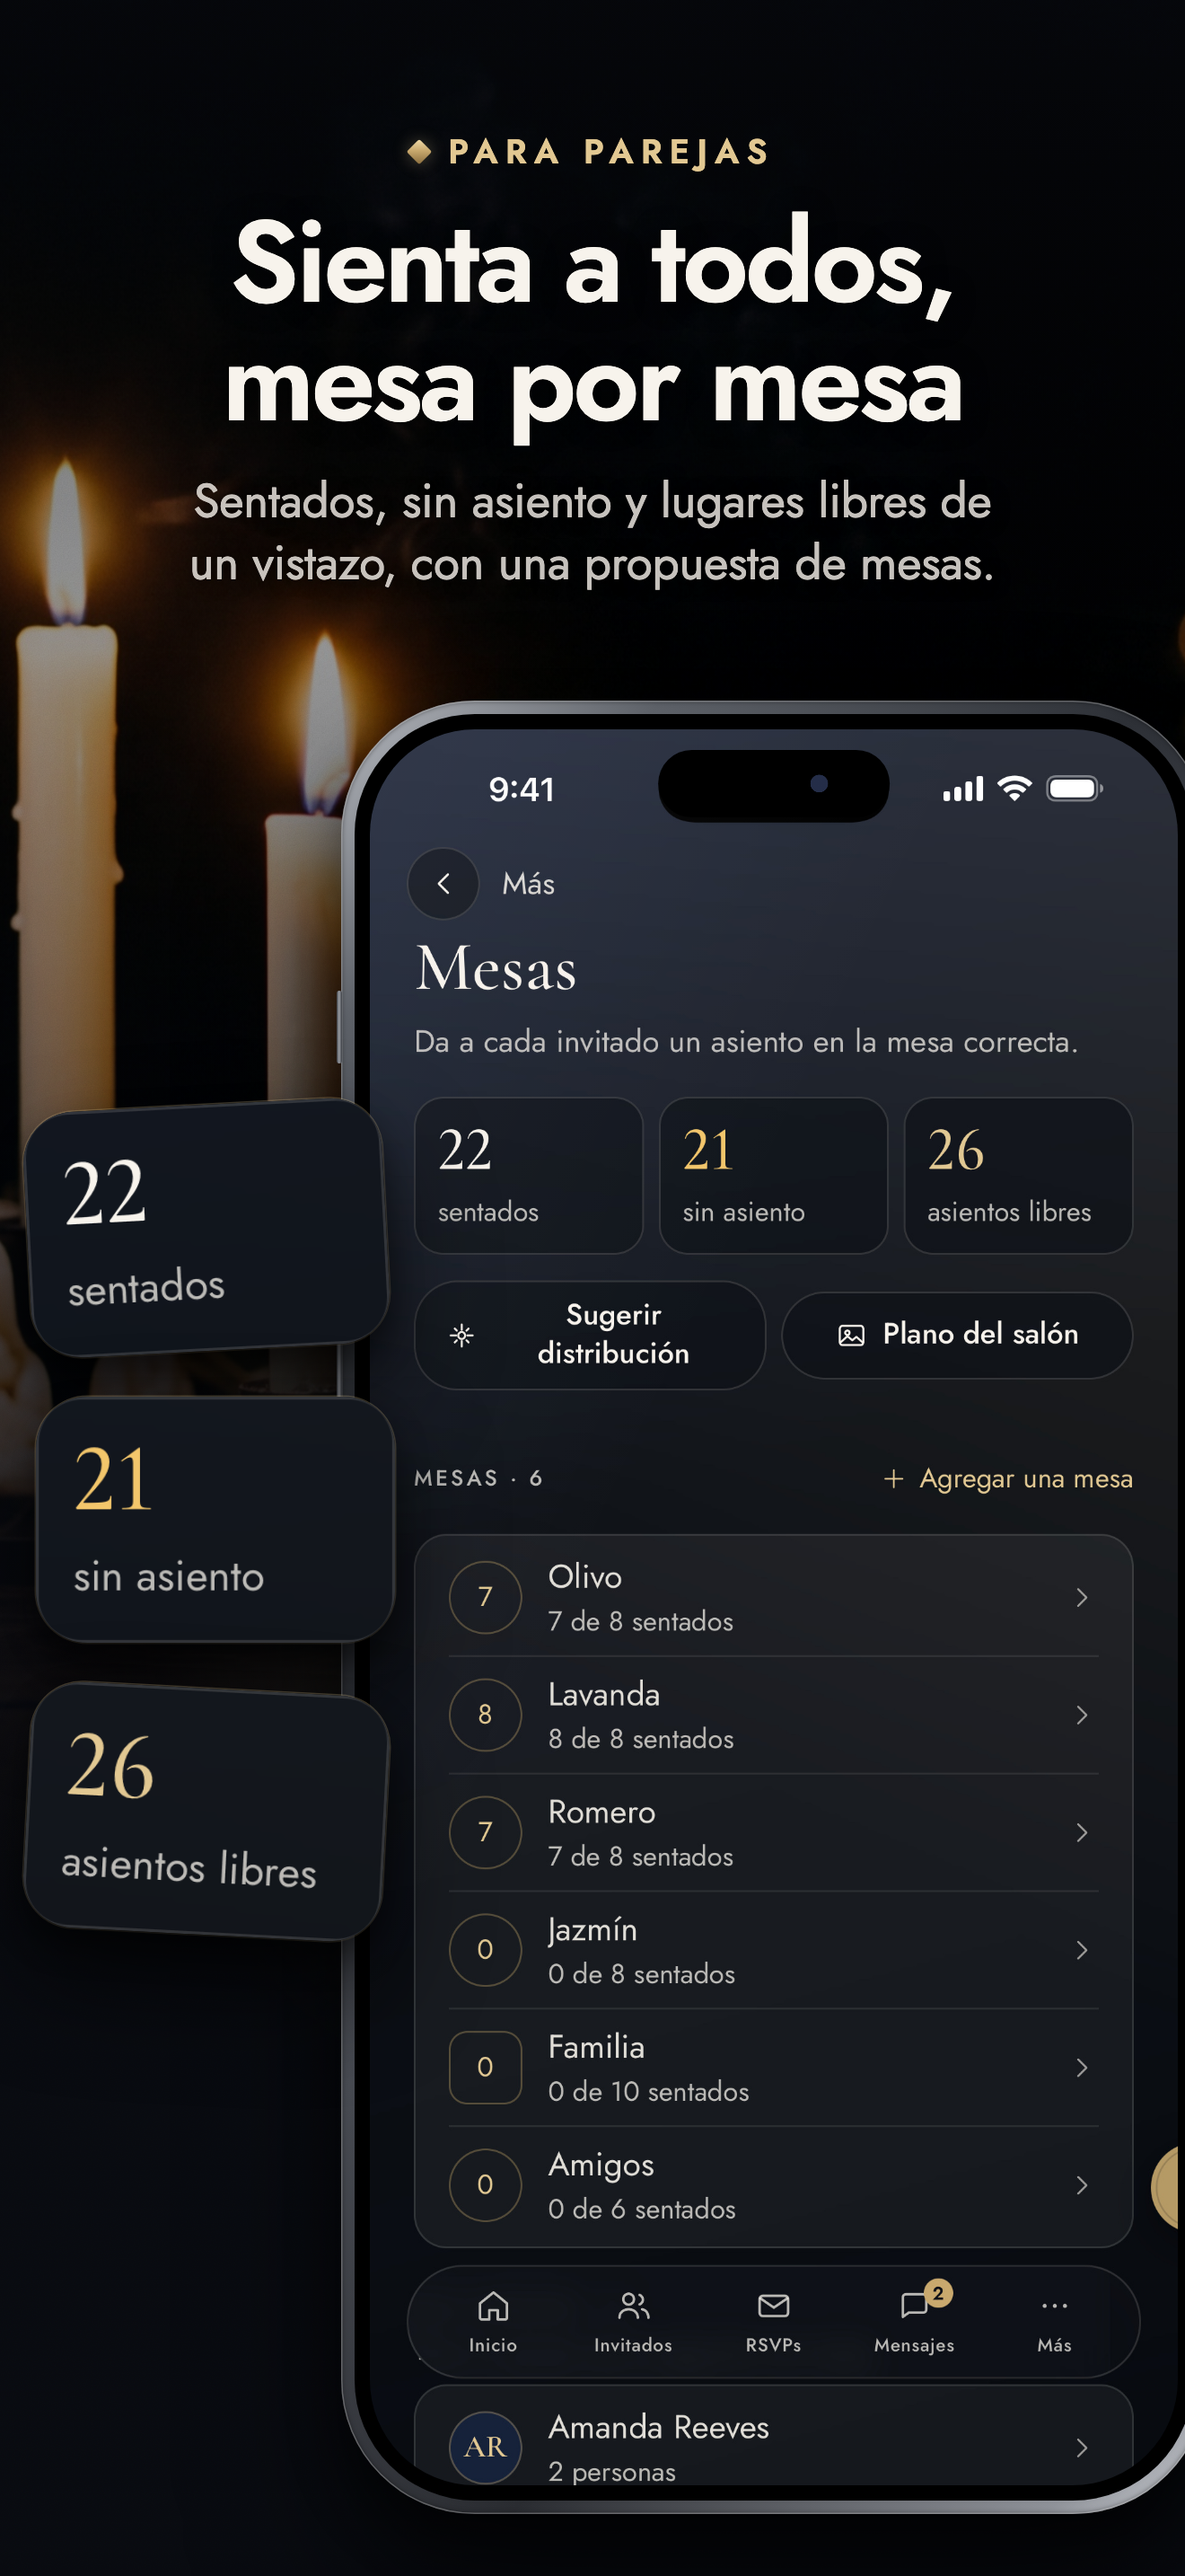
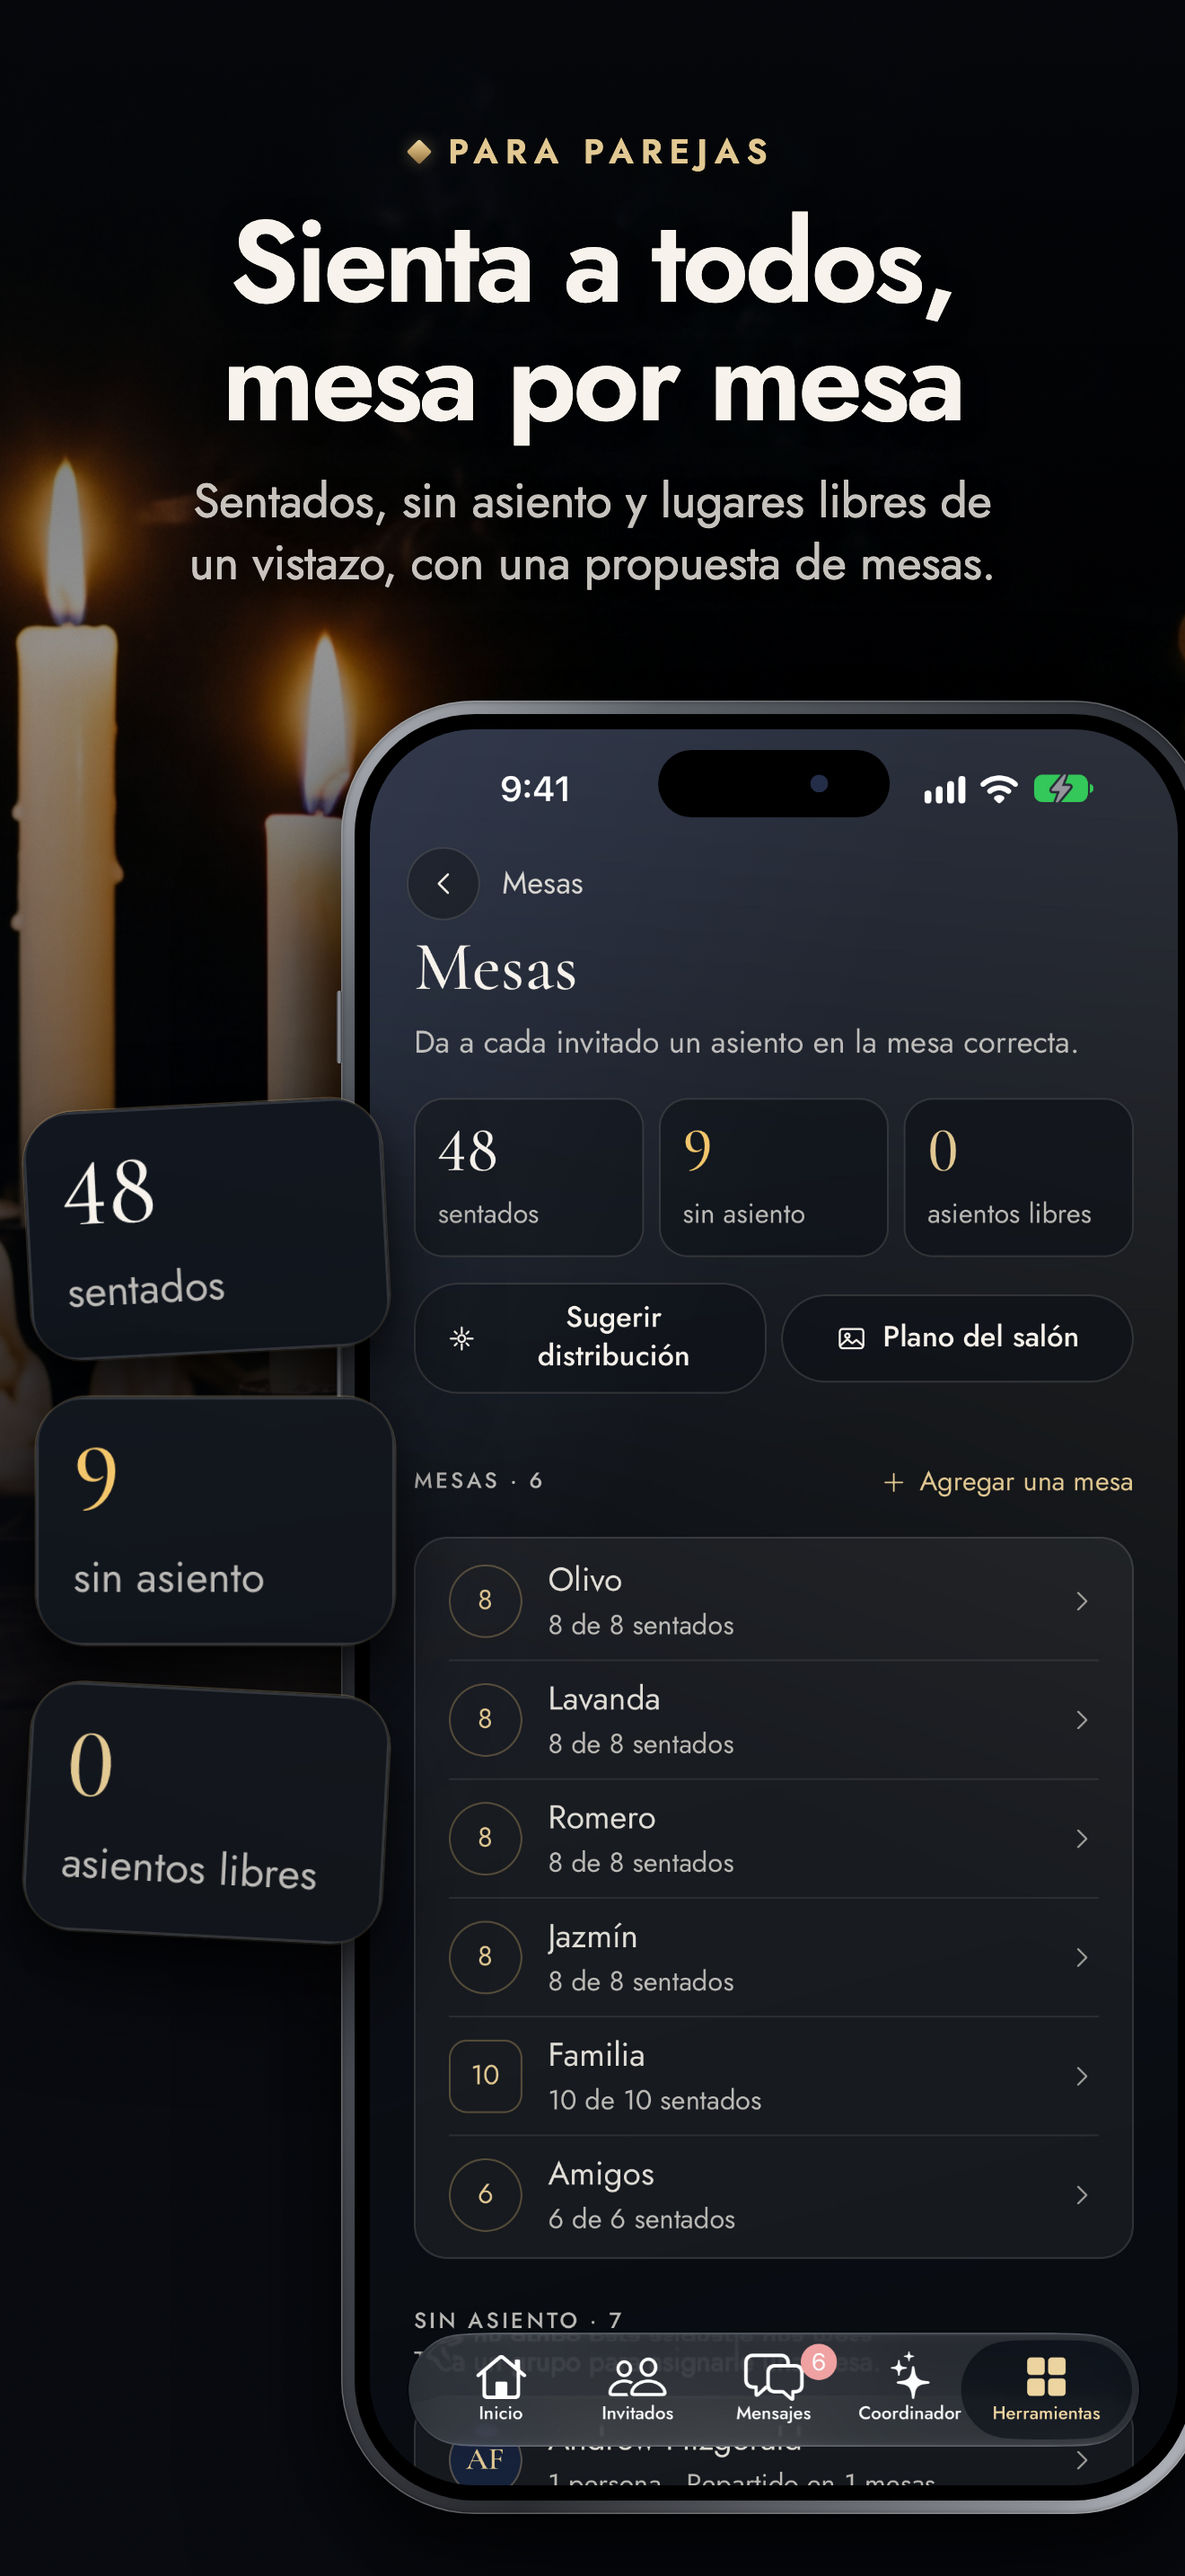
Store: recapture screenshots 06-09 on app 1.2 (new tab bar), partial-rebuild support in the screenshot tools
Claude-Session: https://claude.ai/code/session_01DJQs2B5jbS4ukoA1C6Tfy6

diff --git a/guestly-mobile/store/screenshots/src/boxes.js b/guestly-mobile/store/screenshots/src/boxes.js
@@ -1,1 +1,1 @@
-window.BOXES = {"en": {"answer-shuttle": {"box": [174, 1692, 1044, 2073], "w": 870, "h": 381}, "answer-parking": {"box": [174, 834, 1044, 1416], "w": 870, "h": 582}, "rsvp-grant": {"box": [72, 1470, 1248, 2232], "w": 1176, "h": 762}, "couple-reply": {"box": [60, 1863, 1068, 2235], "w": 1008, "h": 372}, "getting-there": {"box": [60, 1707, 1260, 2052], "w": 1200, "h": 345}, "checkin-card": {"box": [60, 1139, 1260, 1627], "w": 1200, "h": 488}, "planner-card": {"box": [72, 744, 1248, 1040], "w": 1176, "h": 296}, "seat-stat-0": {"box": [72, 600, 448, 858], "w": 376, "h": 258}, "seat-stat-1": {"box": [472, 600, 848, 858], "w": 376, "h": 258}, "seat-stat-2": {"box": [872, 600, 1248, 858], "w": 376, "h": 258}, "guest-question": {"box": [253, 1141, 1258, 1361], "w": 1005, "h": 220}, "rsvp-stats": {"box": [44, 634, 1276, 1064], "w": 1232, "h": 430}, "question-shuttle": {"box": [452, 1444, 1258, 1664], "w": 806, "h": 220}, "signup-apple": {"box": [74, 1506, 1246, 1680], "w": 1172, "h": 174}, "signup-google": {"box": [74, 1710, 1246, 1884], "w": 1172, "h": 174}}, "es": {"answer-shuttle": {"box": [174, 1692, 1044, 2058], "w": 870, "h": 366}, "rsvp-grant": {"box": [72, 1254, 1285, 1835], "w": 1213, "h": 581}, "couple-reply": {"box": [60, 1863, 1068, 2235], "w": 1008, "h": 372}, "getting-there": {"box": [60, 1707, 1260, 2052], "w": 1200, "h": 345}, "checkin-card": {"box": [60, 1139, 1260, 1627], "w": 1200, "h": 488}, "planner-card": {"box": [72, 744, 1248, 1040], "w": 1176, "h": 296}, "seat-stat-0": {"box": [72, 600, 448, 858], "w": 376, "h": 258}, "seat-stat-1": {"box": [472, 600, 848, 858], "w": 376, "h": 258}, "seat-stat-2": {"box": [872, 600, 1248, 858], "w": 376, "h": 258}, "guest-question": {"box": [261, 996, 1258, 1146], "w": 997, "h": 150}, "rsvp-stats": {"box": [44, 634, 1276, 1064], "w": 1232, "h": 430}, "question-shuttle": {"box": [452, 1444, 1258, 1664], "w": 806, "h": 220}, "answer-parking": {"box": [174, 618, 1044, 1416], "w": 870, "h": 798}, "signup-apple": {"box": [74, 1506, 1246, 1680], "w": 1172, "h": 174}, "signup-google": {"box": [74, 1710, 1246, 1884], "w": 1172, "h": 174}}};
+window.BOXES = {"en": {"answer-shuttle": {"box": [174, 1692, 1044, 2073], "w": 870, "h": 381}, "answer-parking": {"box": [174, 834, 1044, 1416], "w": 870, "h": 582}, "rsvp-grant": {"box": [72, 1470, 1248, 2232], "w": 1176, "h": 762}, "couple-reply": {"box": [60, 1863, 1068, 2235], "w": 1008, "h": 372}, "getting-there": {"box": [60, 1707, 1260, 2052], "w": 1200, "h": 345}, "checkin-card": {"box": [60, 1139, 1260, 1627], "w": 1200, "h": 488}, "planner-card": {"box": [72, 1799, 1248, 2153], "w": 1176, "h": 354}, "seat-stat-0": {"box": [72, 602, 448, 862], "w": 376, "h": 260}, "seat-stat-1": {"box": [472, 602, 848, 862], "w": 376, "h": 260}, "seat-stat-2": {"box": [872, 602, 1248, 862], "w": 376, "h": 260}, "guest-question": {"box": [253, 1141, 1258, 1361], "w": 1005, "h": 220}, "rsvp-stats": {"box": [60, 1182, 1260, 1822], "w": 1200, "h": 640}, "question-shuttle": {"box": [452, 1444, 1258, 1664], "w": 806, "h": 220}, "signup-apple": {"box": [74, 1506, 1246, 1680], "w": 1172, "h": 174}, "signup-google": {"box": [74, 1710, 1246, 1884], "w": 1172, "h": 174}}, "es": {"answer-shuttle": {"box": [174, 1692, 1044, 2058], "w": 870, "h": 366}, "rsvp-grant": {"box": [72, 1254, 1285, 1835], "w": 1213, "h": 581}, "couple-reply": {"box": [60, 1863, 1068, 2235], "w": 1008, "h": 372}, "getting-there": {"box": [60, 1707, 1260, 2052], "w": 1200, "h": 345}, "checkin-card": {"box": [60, 1139, 1260, 1627], "w": 1200, "h": 488}, "planner-card": {"box": [72, 1799, 1248, 2153], "w": 1176, "h": 354}, "seat-stat-0": {"box": [72, 602, 448, 862], "w": 376, "h": 260}, "seat-stat-1": {"box": [472, 602, 848, 862], "w": 376, "h": 260}, "seat-stat-2": {"box": [872, 602, 1248, 862], "w": 376, "h": 260}, "guest-question": {"box": [261, 996, 1258, 1146], "w": 997, "h": 150}, "rsvp-stats": {"box": [60, 1182, 1260, 1822], "w": 1200, "h": 640}, "question-shuttle": {"box": [452, 1444, 1258, 1664], "w": 806, "h": 220}, "answer-parking": {"box": [174, 618, 1044, 1416], "w": 870, "h": 798}, "signup-apple": {"box": [74, 1506, 1246, 1680], "w": 1172, "h": 174}, "signup-google": {"box": [74, 1710, 1246, 1884], "w": 1172, "h": 174}}};

diff --git a/guestly-mobile/store/screenshots/src/panels.js b/guestly-mobile/store/screenshots/src/panels.js
@@ -1,5 +1,5 @@
 // Guest-ly App Store set v2: panel copy and layout. Coordinates are px inside a
-// 1320 x 2868 panel. Every screen is a real capture of app 1.1 (see README);
+// 1320 x 2868 panel. Every screen is a real capture of the app (1.1 for the guest panels, 1.2 for 06-09; see README);
 // every callout is cut from one of those captures by tools/prepare.py.
 //
 // device: { screen, x, y, w (screen width px), rot }
@@ -87,9 +87,9 @@ window.PANELS = [
       en: "See who's coming, who can't make it and who still has to answer.",
       es: "Ve quién viene, quién no puede y quién falta por responder.",
     },
-    devices: [D("rsvps", { soft: [[1040, 1225]] })],
+    devices: [D("rsvps", { soft: [[1030, 1880]] })],
     callouts: [
-      { img: "rsvp-stats", from: 0, k: 1.2, dx: 0, dy: 40, rot: -1.5 },
+      { img: "rsvp-stats", x: 100, y: 1560, w: 1120, rot: -1.5 },
     ],
   },
   {
@@ -128,7 +128,7 @@ window.PANELS = [
       es: "Todas tus bodas en un solo lugar: invitados, solicitudes y tareas.",
     },
     devices: [D("couple-request", { x: 260 })],
-    callouts: [{ img: "planner-card", x: 40, y: 2350, w: 1000, rot: -3 }],
+    callouts: [{ img: "planner-card", x: 40, y: 2450, w: 1000, rot: -3 }],
   },
   {
     id: "10-start",

diff --git a/guestly-mobile/store/screenshots/src/tools/prepare.py b/guestly-mobile/store/screenshots/src/tools/prepare.py
@@ -18,6 +18,10 @@ from PIL import Image
 HERE = os.path.dirname(os.path.dirname(os.path.abspath(__file__)))
 RAW = sys.argv[1] if len(sys.argv) > 1 else os.path.join(HERE, "raw")
 spec = json.load(open(os.path.join(HERE, "crops.json")))
+# Partial runs: ONLY_SCREENS=a,b ONLY_CROPS=x,y rebuild just those assets and leave the rest as they are.
+ONLY_SCREENS = set(filter(None, os.environ.get("ONLY_SCREENS", "").split(",")))
+ONLY_CROPS = set(filter(None, os.environ.get("ONLY_CROPS", "").split(",")))
+PARTIAL = bool(ONLY_SCREENS or ONLY_CROPS)
 
 def lum(p):
     return 0.2126 * p[0] + 0.7152 * p[1] + 0.0722 * p[2]
@@ -43,11 +47,16 @@ for lang in ("en", "es"):
     os.makedirs(os.path.join(HERE, "assets", "screens", lang), exist_ok=True)
     os.makedirs(os.path.join(HERE, "assets", "callouts", lang), exist_ok=True)
     for key, name in spec["screens"][lang].items():
+        if PARTIAL and key not in ONLY_SCREENS:
+            continue
         im = Image.open(os.path.join(RAW, name + ".png")).convert("RGB")
         assert im.size == (1320, 2868), (name, im.size)
         im.save(os.path.join(HERE, "assets", "screens", lang, key + ".jpg"), quality=94, subsampling=0)
-    out = {}
+    bpath = os.path.join(HERE, "assets", "callouts", lang, "boxes.json")
+    out = json.load(open(bpath)) if PARTIAL and os.path.exists(bpath) else {}
     for key, c in spec["crops"][lang].items():
+        if PARTIAL and key not in ONLY_CROPS:
+            continue
         im = Image.open(os.path.join(RAW, c["src"] + ".png")).convert("RGB")
         box = tuple(c["box"])
         if c.get("tight"):

diff --git a/guestly-mobile/store/screenshots/src/README.md b/guestly-mobile/store/screenshots/src/README.md
@@ -1,4 +1,4 @@
-# Guest-ly App Store screenshots, set v2 (app 1.1)
+# Guest-ly App Store screenshots, set v2 (panels 01-05 and 10: app 1.1; panels 06-09 recaptured on app 1.2, Oct 25 2026)
 
 Ten panels per language, 1320 x 2868 PNG (App Store 6.9 inch), sRGB, no alpha.
 
@@ -47,3 +47,7 @@ A lifted card is bigger than its source, so it would half-cover neighbouring UI.
 ## Recapturing
 
 The demo account credentials are in `~/Desktop/guest-ly/guestly-mobile/credentials/demo-accounts.env`; guest invite code CAMAND, guest Whitney Adler. Capture from a copy of the app built for the simulator (never inside the worktree). After a recapture, rerun `tools/prepare.py`, check the crops in `crops.json` (text length moves cards), then render.
+
+## Recapture notes (Oct 25 2026, panels 06-09)
+
+Captured on the iPhone 18 Pro Max simulator (1320 x 2868), Release bundle with `EXPO_PUBLIC_DUO_PROBE=1` driven by the local probe server, demo couple and planner of `demo-review`, EN and es-MX. 06 now shows the Guests list with the Home reply card lifted (the old RSVPs screen no longer exists in 1.2); 07 and 08 are the Tools screens; 09 uses the planner Today card "Waiting on the couple". The check-in result card callout is the 1.1 one (the card is unchanged). Partial rebuilds: `ONLY_SCREENS=... ONLY_CROPS=... python3 tools/prepare.py raw`. If Playwright's browser is missing, set `CHROMIUM_PATH` to a headless shell binary.
